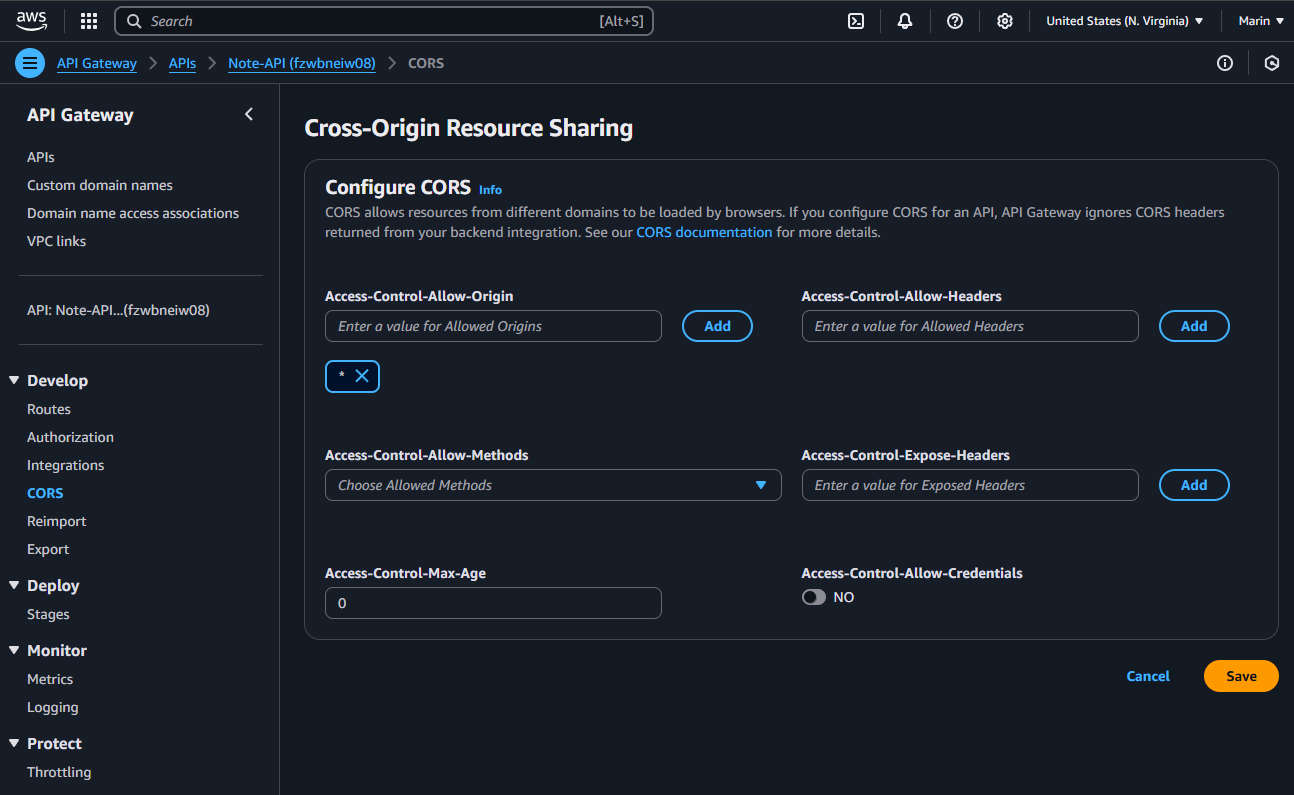
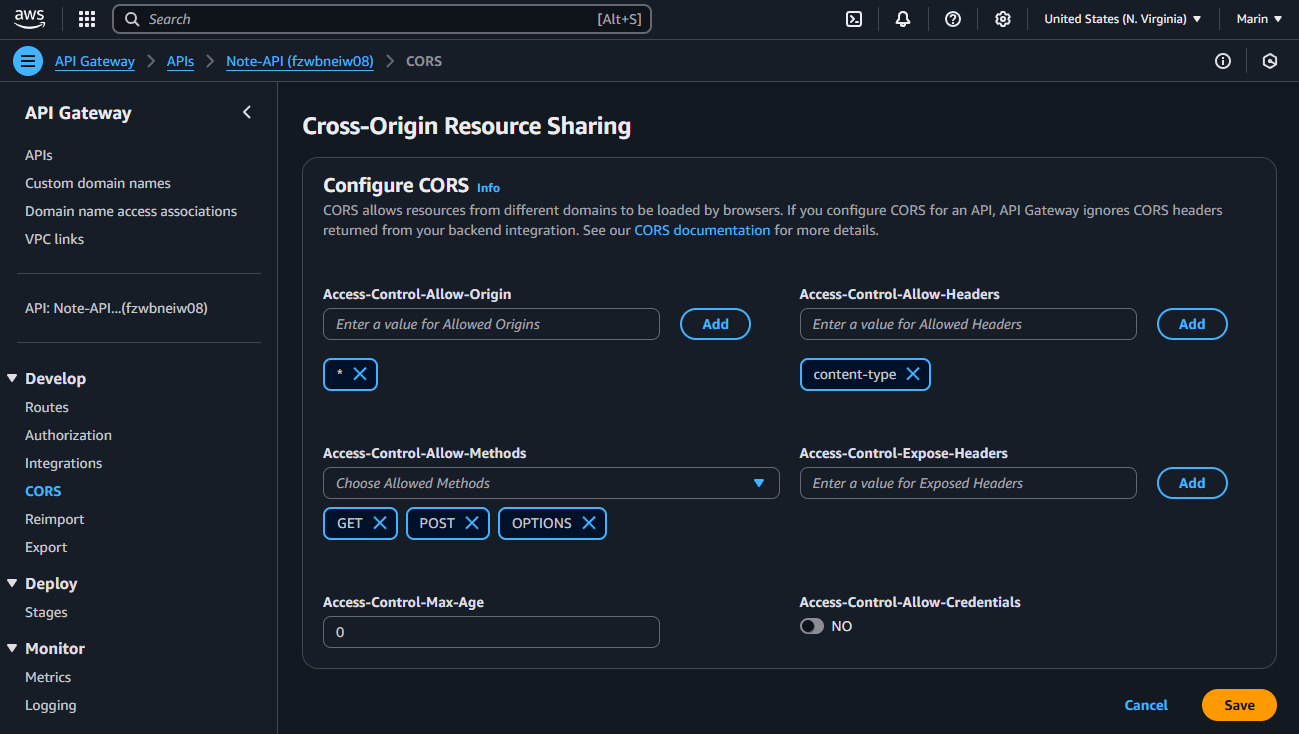
Doc Fix Cors

diff --git a/README.md b/README.md
@@ -860,7 +860,25 @@ Then go to `APIs` and then look for the API Gateway that we created before.
 
 Now on the left menu go to `CORS` under `Develop` and click on `Configure`
 
-On this screen go into the input for `Access-Control-Allow-Origin` and type `*` then click on `Add`
+And you will configure as follow:
+
+`Access-Control-Allow-Origin`
+```
+*
+```
+
+`Access-Control-Allow-Headers`
+```
+content-type
+```
+
+`Access-Control-Allow-Methods`
+```
+GET
+POST
+OPTIONS
+```
+
 
 Then click `Save`
 ![API Gateway CORS](doc/images/api-gateway-cors.png)
